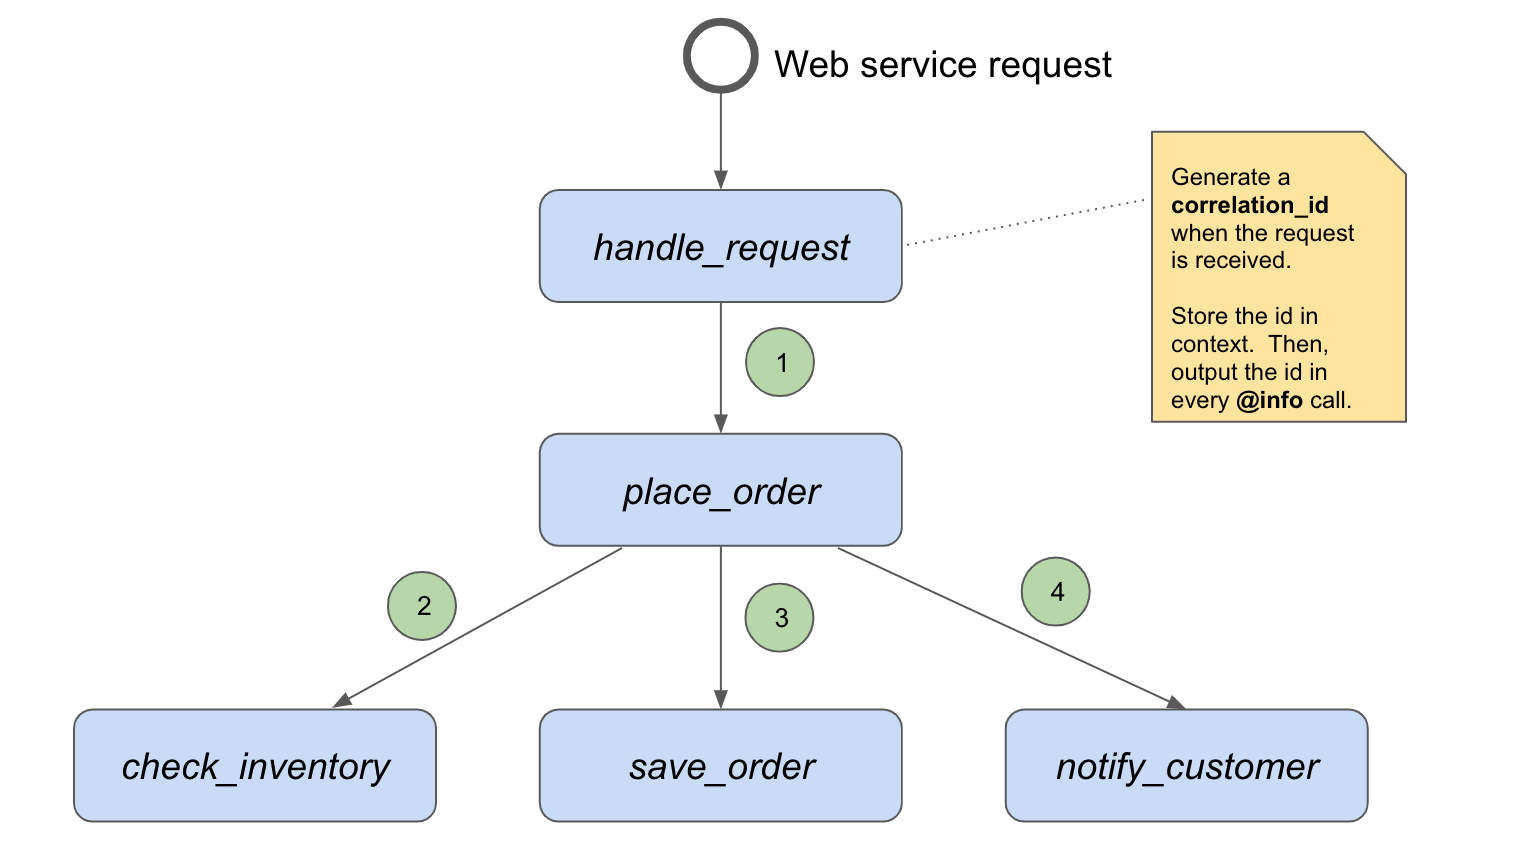
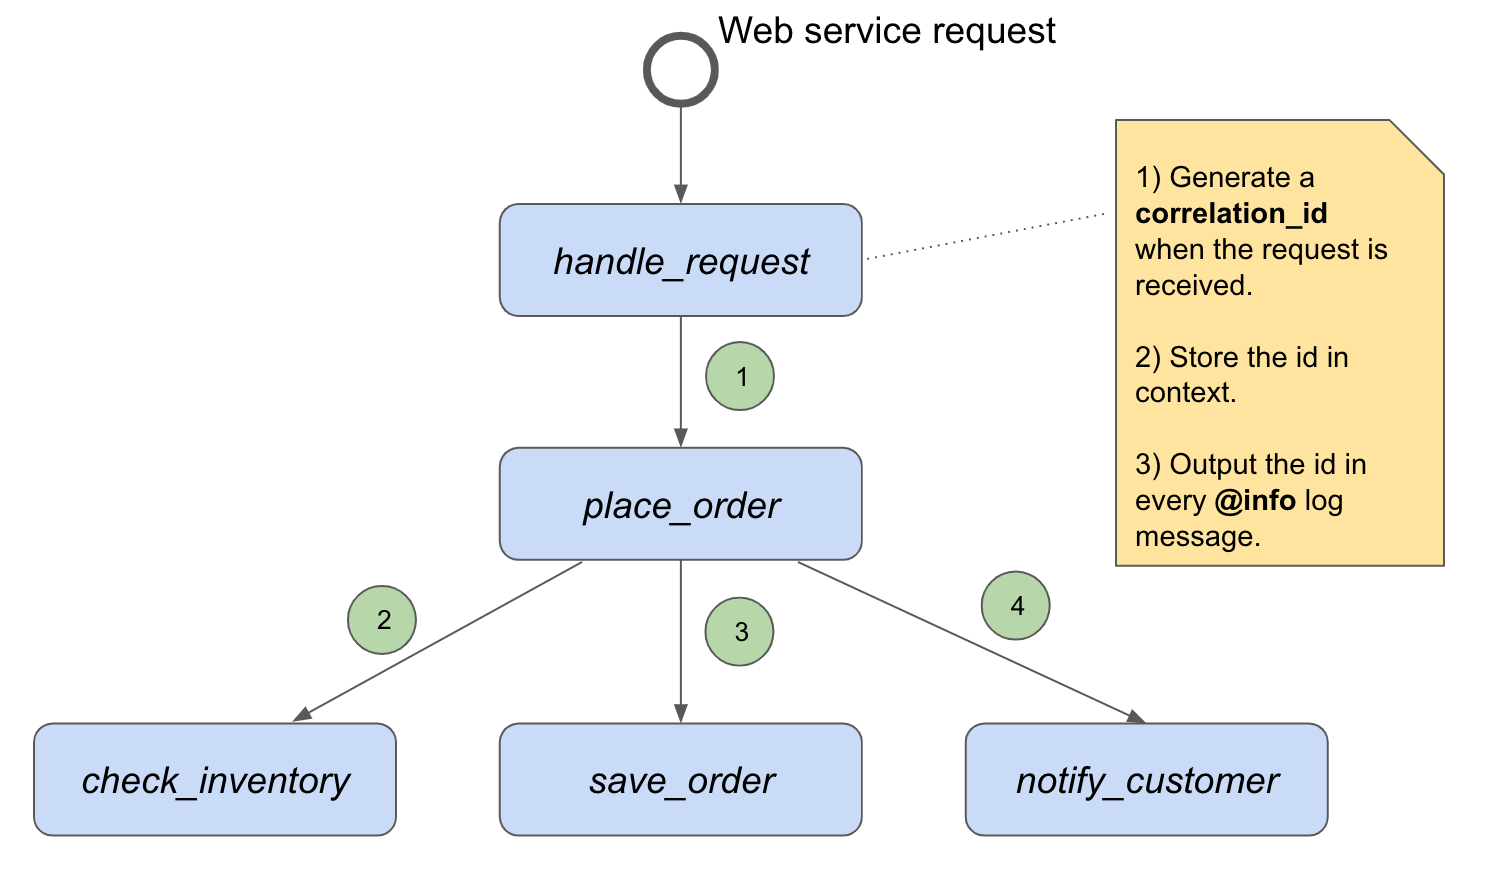
📝 Updated image

diff --git a/README.md b/README.md
@@ -15,6 +15,8 @@ The usage is embarassingly simple:
 
 Suppose that we are [processing a web request](images/web_service_example.png).  We may want to create a [correlation id](https://blog.rapid7.com/2016/12/23/the-value-of-correlation-ids/) to keep track of the request and include the request id whenever we write anything to the log file during any part of the processing of that request.
 
+![](images/web_service_example.png | width=300)
+
 It may seems somewhat redundant to log the same data multiple times but it is invaluable in debugging production problems.  Imagine that two users are hitting the same web service at the same time.  If we look at the log file, everything could be interleaving and it would be quite confusing without the context.
 
 As context data is stored in a stack structure, you naturally gain more "knowledge" when going deeper into the execution stack. Then, you naturally "forget" about those details when the execution stack unwinds.  With this design, you can just memoize the most valuable knowledge needed in the log file.
